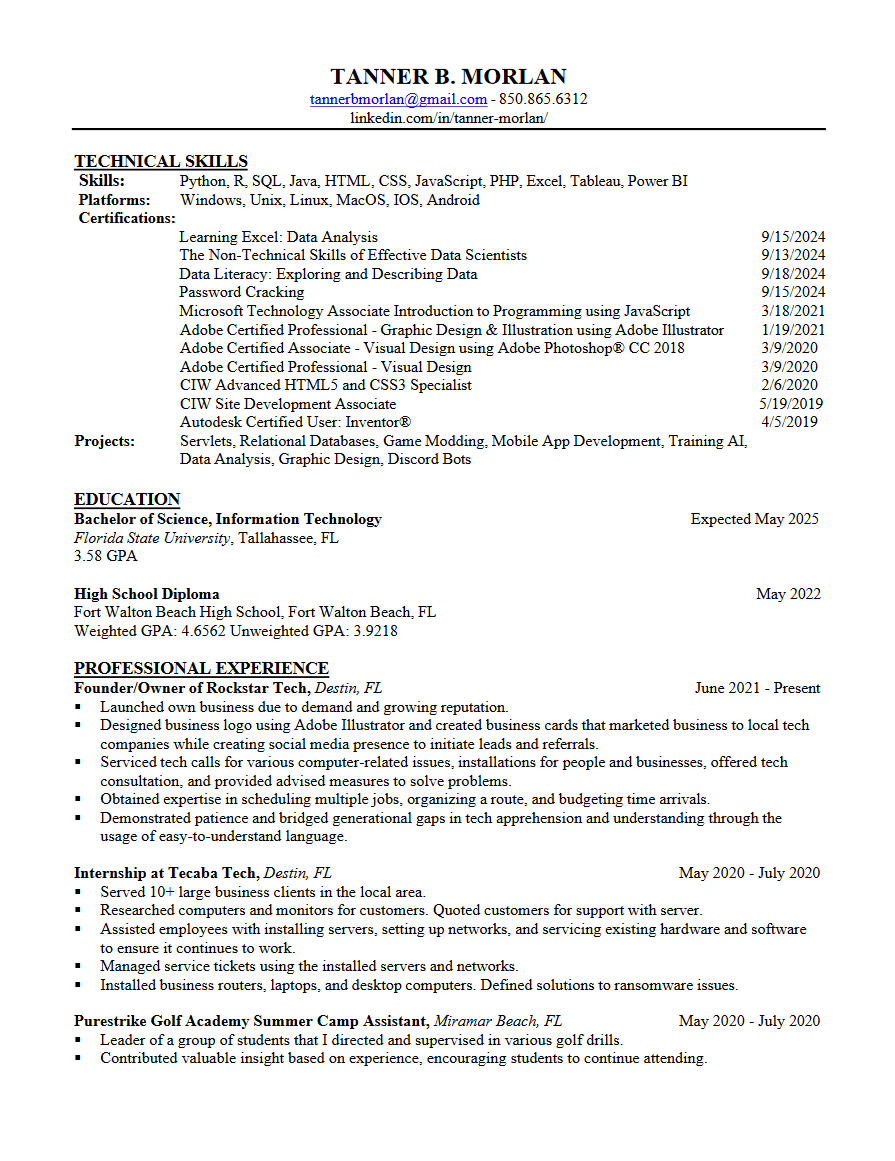
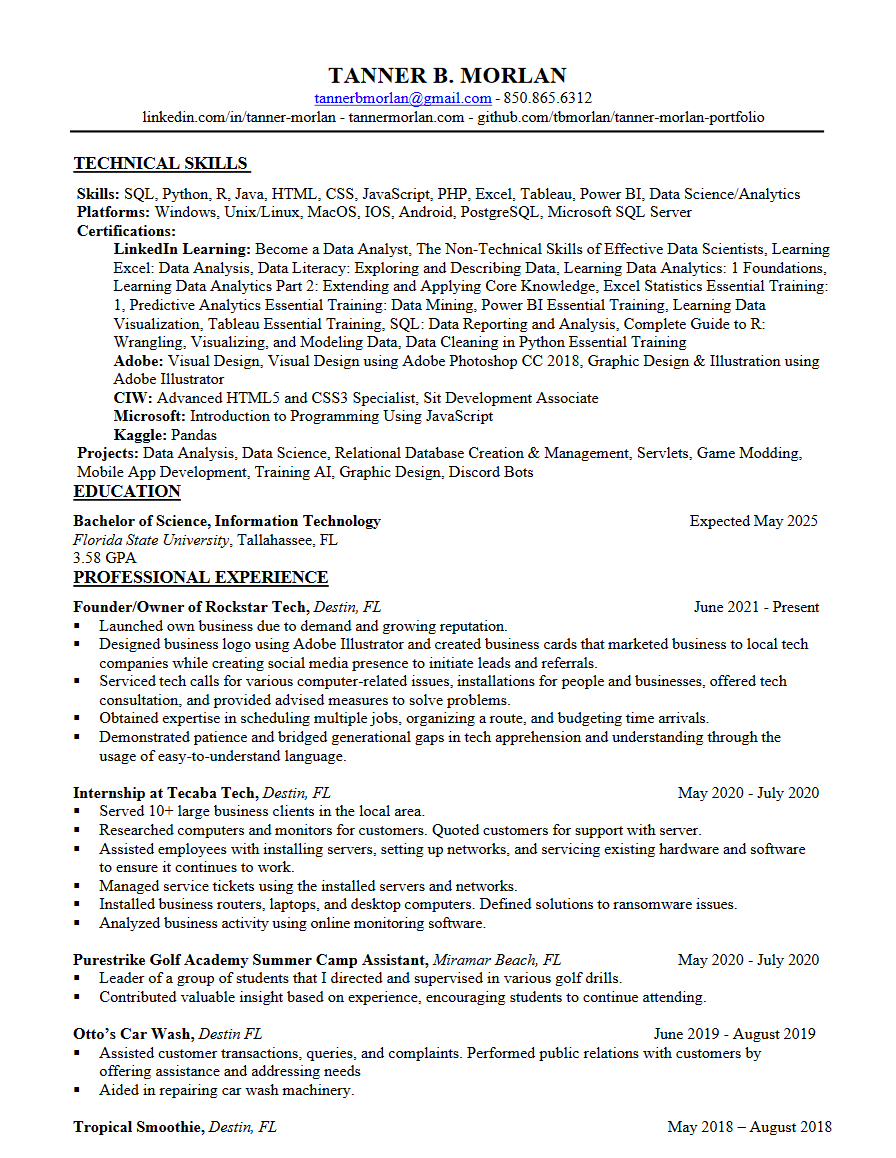
update resume and readme

diff --git a/README.md b/README.md
@@ -7,8 +7,8 @@
 - [Website](https://tannermorlan.com/)
 - [Linkedin](https://www.linkedin.com/in/tanner-morlan/)
 - Email: tannerbmorlan@gmail.com
-- [Main Resume](resume/main_resume.md)
-- [Data Analyst Specific Resume](resume/data_analyst_resume.md)
+- [Master Resume](resume/main_resume.md)
+- [One Page Resume](resume/one_page_resume.md)
 
 ## **Certifications**
 
@@ -36,6 +36,94 @@
 - [Certiport - Autodesk Certified User: Inventor](img/autodesk-certified-user-inventor.png)
 
 
+
+## Personal Projects:
+
+### **Metal Music Analysis**
+
+[GitHub Repository](https://github.com/tbmorlan/metal-music-analysis)
+
+***Description:***
+
+- Get dataset from Kaggle to gain insights about metal music on Amazon.
+- Clean dataset to facilitate analysis.
+- Use analytical tools to work with the data and learn more about it.
+- Create visualizations to portray data in a more readable way to a non-technical person.
+
+***Languages and Skill Sets:***
+
+- SQL
+- Python
+- R
+- Power BI
+- PostgreSQL
+- Docker
+- Statistical Analyses
+- Creating Interactive Dashboards
+- Querying dataset to do Analysis
+
+
+### **Marlin Discord Bot**
+
+[Bitbucket Repository](https://bitbucket.org/tannerworkspace/marlinbot/src/master/)
+
+***Description:***
+
+- Marlin is a Discord bot created by Tanner Morlan. The main intention of the bot is simplicity with no hard to configure settings or permissions. The bot brings many essential features including moderation, fun commands, and essential server commands that ensure that you have exactly what you need! 
+
+- This is the second version using JavaScript. The first version was written in Python.
+
+***Languages and Skill Sets:***
+
+- JavaScript
+- Working with Discord API
+- Full rewrite of code from Python to JavaScript
+- Running a bot using batch files
+- Graphic Design
+
+### **Tabber Discord Bot**
+
+[Bitbucket Repository](https://bitbucket.org/tannerworkspace/tabberbotpy/src/master/)
+
+***Description:***
+
+- First version of the Marlin Discord bot listed above. However, this one was written in Python.
+
+***Languages and Skill Sets:***
+
+- Python
+- Working with Discord API
+- Running a bot using batch files
+
+### **Minecraft Mod Basic Guide**
+
+[Bitbucket Repository](https://bitbucket.org/tannerworkspace/minecraft-mod-testing-1.21/src/master/)
+
+***Description:***
+
+- Short guide with starter files I created to get into Minecraft modding! This was created to help my friends who were also interested, hence the guide I created.
+
+***Languages and Skill Sets:***
+
+- Java
+- Gradle Build Tool
+- Working with [Fabric API](https://docs.fabricmc.net/)
+- IntelliJ
+- Writing a guide using a README file
+
+### **Website**
+
+[Bitbucket Repository](https://bitbucket.org/tannerworkspace/web2website/src/master/)
+
+***Description:***
+
+- Website I created alongside my web development class in 2020.
+
+***Languages and Skill Sets:***
+
+- HTML, CSS, JavaScript
+- Responsive web design
+- Bootstrap framework
 
 ## **Classes:**
 
@@ -110,67 +198,3 @@ This course provides an introduction to data analytics, which is defined as the 
 - Jupyter Notebook
 - Predictive models
 - Various data analysis algorithms
-
-## Personal Projects:
-
-### **Marlin Discord Bot**
-
-[Bitbucket Repository](https://bitbucket.org/tannerworkspace/marlinbot/src/master/)
-
-***Description:***
-
-- Marlin is a Discord bot created by Tanner Morlan. The main intention of the bot is simplicity with no hard to configure settings or permissions. The bot brings many essential features including moderation, fun commands, and essential server commands that ensure that you have exactly what you need! 
-
-- This is the second version using JavaScript. The first version was written in Python.
-
-***Languages and Skill Sets:***
-
-- JavaScript
-- Working with Discord API
-- Full rewrite of code from Python to JavaScript
-- Running a bot using batch files
-- Graphic Design
-
-### **Tabber Discord Bot**
-
-[Bitbucket Repository](https://bitbucket.org/tannerworkspace/tabberbotpy/src/master/)
-
-***Description:***
-
-- First version of the Marlin Discord bot listed above. However, this one was written in Python.
-
-***Languages and Skill Sets:***
-
-- Python
-- Working with Discord API
-- Running a bot using batch files
-
-### **Minecraft Mod Basic Guide**
-
-[Bitbucket Repository](https://bitbucket.org/tannerworkspace/minecraft-mod-testing-1.21/src/master/)
-
-***Description:***
-
-- Short guide with starter files I created to get into Minecraft modding! This was created to help my friends who were also interested, hence the guide I created.
-
-***Languages and Skill Sets:***
-
-- Java
-- Gradle Build Tool
-- Working with [Fabric API](https://docs.fabricmc.net/)
-- IntelliJ
-- Writing a guide using a README file
-
-### **Website**
-
-[Bitbucket Repository](https://bitbucket.org/tannerworkspace/web2website/src/master/)
-
-***Description:***
-
-- Website I created alongside my web development class in 2020.
-
-***Languages and Skill Sets:***
-
-- HTML, CSS, JavaScript
-- Responsive web design
-- Bootstrap framework

diff --git a/resume/main_resume.md b/resume/main_resume.md
@@ -1,6 +1,6 @@
 # Tanner Morlan's Resume!
 
-### Last updated: 09/23/2024
+### Last updated: 11/02/2024
 
 ![Resume Image 1](../img/TannerMorlanResume1.png "Resume Image 1")
 ![Resume Image 2](../img/TannerMorlanResume2.png "Resume Image 2")

diff --git a/resume/one_page_resume.md b/resume/one_page_resume.md
@@ -1,0 +1,5 @@
+# Tanner Morlan's Data Analyst-Specific Resume!
+
+### Last updated: 11/02/2024
+
+![Resume Image 1](../img/TannerMorlanResume_ONE_PAGE.png "Resume Image 1")
